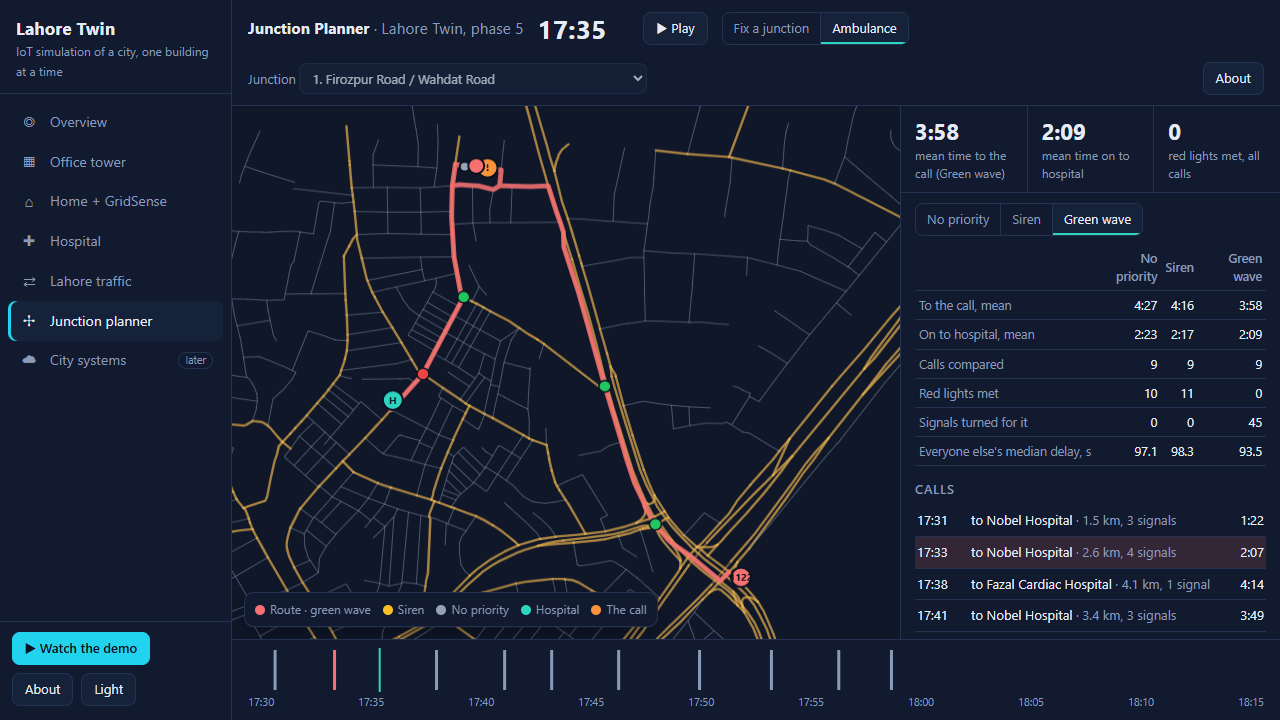
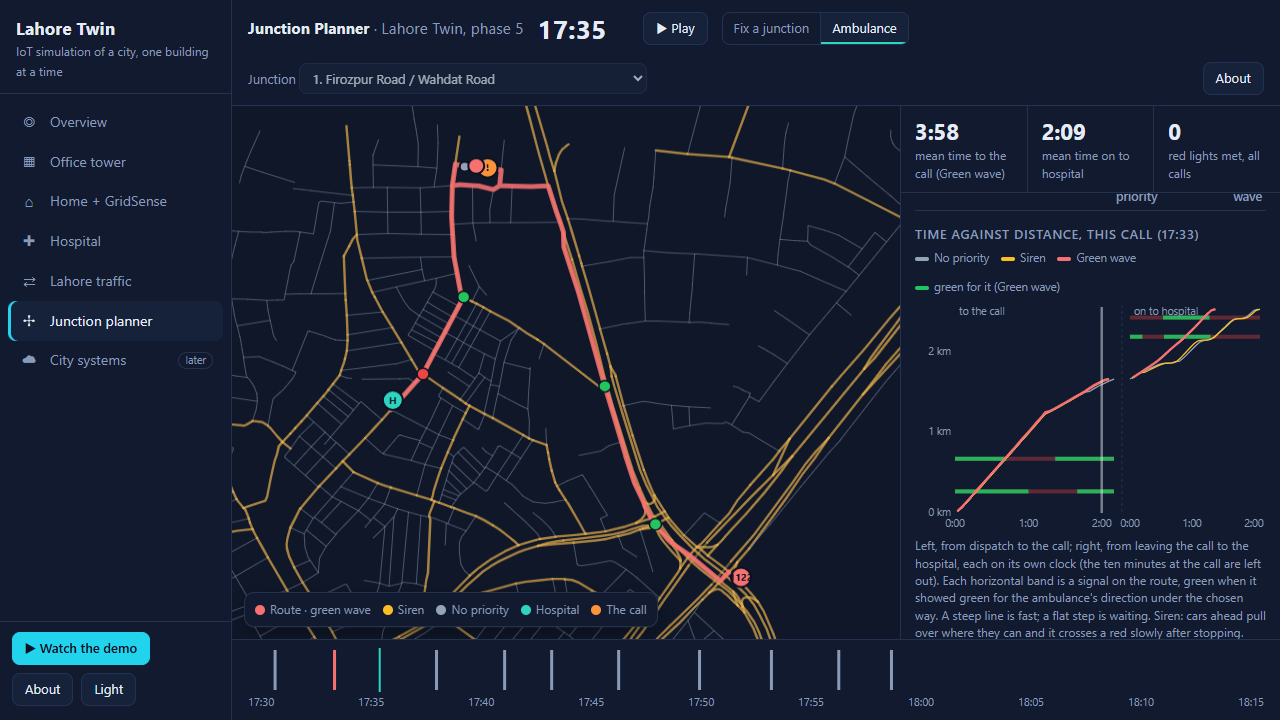
Phase 5 rounds 6-10: hour-long check, demo check, captions, media refreshed

Changed region(s): [[0.7188, 0.2444, 1.0, 0.8861], [0.9688, 0.5806, 1.0, 0.6417]]

diff --git a/tools/ui_check_demo.js b/tools/ui_check_demo.js
@@ -1,0 +1,45 @@
+// Watch "Watch the demo" from start to finish through the real server, as a person would:
+// record every caption it shows, fail on any page error, a "Demo stopped" or a module that never opens.
+// usage: NODE_PATH=<dir with playwright> node tools/ui_check_demo.js <outdir> [base-url]
+const path = require("path");
+const fs = require("fs");
+const { chromium } = require("playwright");
+
+const out = process.argv[2] || "ui-shots";
+const BASE = process.argv[3] || "http://127.0.0.1:8861/";
+fs.mkdirSync(out, { recursive: true });
+const fail = (m) => { console.error("DEMO CHECK FAILED:", m); process.exit(1); };
+
+(async () => {
+  const exe = process.env.CHROMIUM || path.join(process.env.LOCALAPPDATA || "", "ms-playwright", "chromium-1243", "chrome-win64", "chrome.exe");
+  const browser = await chromium.launch(fs.existsSync(exe) ? { executablePath: exe } : {});
+  const page = await (await browser.newContext({ viewport: { width: 1440, height: 900 } })).newPage();
+  const errors = [];
+  page.on("pageerror", (e) => errors.push("pageerror: " + e.message));
+  page.on("console", (m) => { if (m.type() === "error") errors.push("console: " + m.text()); });
+  page.on("frameattached", (f) => f.page().on("pageerror", () => {}));
+  await page.goto(BASE + "#demo");
+  const seen = [];
+  const t0 = Date.now();
+  let shots = 0;
+  while (Date.now() - t0 < 25 * 60 * 1000) {
+    const title = await page.textContent("#demo-title").catch(() => "");
+    const text = await page.textContent("#demo-text").catch(() => "");
+    const cap = `${title} | ${text.replace(/… \d+ s$/, "…")}`;
+    if (title && (!seen.length || seen[seen.length - 1] !== cap)) {
+      seen.push(cap);
+      console.log(`${((Date.now() - t0) / 1000).toFixed(0).padStart(4)} s  ${cap}`);
+      if (!/Simulating/.test(text)) { await page.screenshot({ path: path.join(out, `demo-${String(++shots).padStart(2, "0")}.png`) }); }
+    }
+    if (/Demo stopped/.test(title)) fail(text);
+    if (/That was Lahore Twin/.test(title)) break;
+    await page.waitForTimeout(700);
+  }
+  if (!seen.some((c) => /That was Lahore Twin/.test(c))) fail("the demo never finished");
+  for (const k of ["Office tower", "Hospital", "Lahore traffic", "Junction planner", "Home"]) {
+    if (!seen.some((c) => c.includes(k))) fail(`the demo never showed ${k}`);
+  }
+  await browser.close();
+  console.log(`${seen.length} captions; ERRORS:`, errors.length ? "\n" + errors.join("\n") : "none");
+  if (errors.length) process.exit(1);
+})();

diff --git a/viewer/demo.js b/viewer/demo.js
@@ -15,7 +15,7 @@
     { key: "traffic", glob: "__traffic", inputs: { seed: 7, per_hour: 8000, period: "evening" },
       about: "an evening peak of 8,000 trips an hour, with people stopping at real shops" },
     { key: "junctions", glob: "__junctions", inputs: { seed: 7, per_hour: 8000 },
-      about: "the three worst junctions under five fixes, and six Rescue 1122 calls three ways" },
+      about: "the three worst junctions under five fixes, and ten Rescue 1122 calls three ways" },
     { key: "home", glob: "__home", inputs: { seed: 3, season: "june", category: "V", pv_kwp: 6, battery_kwh: 10 },
       about: "a June day with 6 hours of load-shedding, 6 kWp of solar and a 10 kWh battery — four controllers, each after a warm-up day" },
   ];
@@ -172,7 +172,7 @@
     document.body.classList.add("demo-on");
     try {
       S.go("overview");
-      caption("Lahore Twin", "Four IoT systems for a city like Lahore. Each one is now being simulated from real inputs — watch.");
+      caption("Lahore Twin", `${["One", "Two", "Three", "Four", "Five", "Six"][PLAN.length - 1]} IoT systems for a city like Lahore. Each one is now being simulated from real inputs — watch.`);
       // ask for every run now: the server works through them while the first ones are shown
       const runs = PLAN.map((step) => ({ step, replay: runFor(step) }));
       await wait(5000);

diff --git a/tools/demo_video.py b/tools/demo_video.py
@@ -171,6 +171,8 @@ def main() -> None:
         shot("15b-junction-planner")
         f.click('#views button[data-view="amb"]')
         f.evaluate("() => { const J = window.__junctions; J.state.call = 1; J.state.t = J.calls[1].t0 + 120; J.render(); }")
+        # the time-distance diagram is the point of this view: scroll the panel to it
+        f.evaluate("() => document.getElementById('c-td').scrollIntoView({block: 'center'})")
         page.wait_for_timeout(900)
         shot("15c-ambulance-green-wave")
 

diff --git a/PLAN.md b/PLAN.md
@@ -1349,3 +1349,27 @@ hour in 164 s. *Found on that page:* its note said "8,000 trips an hour" — har
 the run's own demand now. And a junction that loses 0.1 vehicle-hours, with no U-turn gap within
 reach, said neither — it now says it is quiet and no fix is worth digging for, and that crossing
 traffic goes round the block when there is no gap.
+
+**Round 6 — light theme.** Both views in light: routes, the three ambulance traces, signal bands,
+the best value in the fix table and the queue chart all stay distinct. No change needed.
+
+**Round 7 — does half an hour say what an hour says?** The planner runs 30 minutes to keep a
+typed run near three minutes. Over the full hour (seed 7): Firozpur Road / Wahdat Road loses 54.2
+vehicle-hours; retime 23.5, adaptive 23.5, underpass 21.1, U-turn conversion 17.4 (+667 km) — the
+same order, each fix cutting 57–68% (67–76% over the half hour). Green wave against no priority:
+−12% over the hour, −11% over the half. The half-hour answer stands.
+
+**Round 8 — watch the demo, start to finish.** New `tools/ui_check_demo.js` opens `/#demo` through
+the real server and records every caption until the end, failing on any page error, a "Demo
+stopped" or a module never shown. It ran 464 s, 30 captions, all five modules, no errors —
+including the planner's fixes and the green wave. *Found:* the opening still said "Four IoT
+systems" and the planner caption "six Rescue 1122 calls"; it counts the modules it plays now, and
+says ten calls.
+
+**Round 9 — the published media match the code.** The 38 isometric pages regenerate identical
+from the current replays (no stale numbers). The walkthrough's ambulance screenshot cut the
+time–distance diagram off at 720 px; it scrolls the panel to the diagram first now. Video and
+screenshots re-recorded.
+
+**Round 10 — final.** Full suite 110 passed, viewer core ok; planner, app and demo checks clean.
+Phase 5 complete; next: phase 6, city systems.
